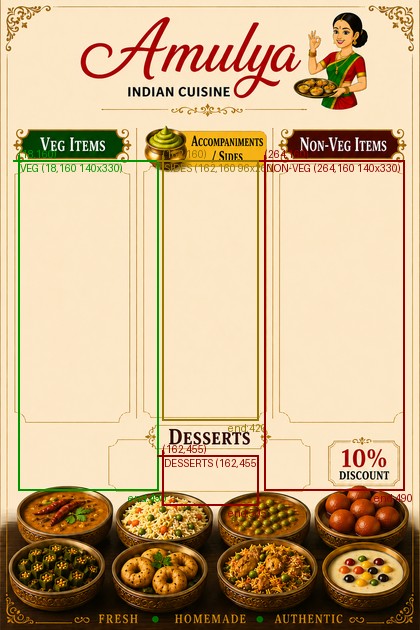
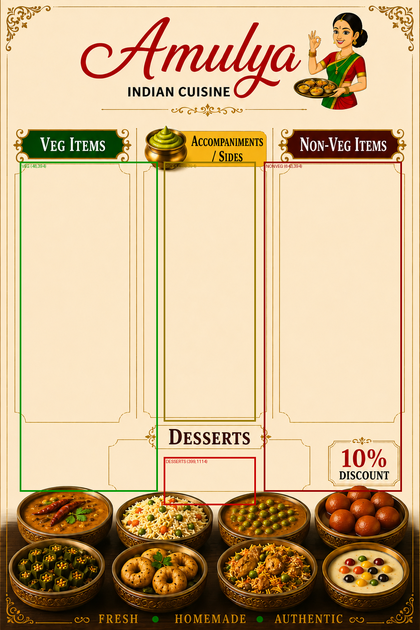
Full quality poster - 1024x1536px template
- Template now uses original full-size 1024x1536 image (was 420x630)
- Box positions recalculated for 1024px width
- Font sizes scaled up proportionally (16-24px range)
- Export at 2x = 2048x3072px output (print quality)
- Preview at 0.3x scale to fit mobile screen
- Text is now crisp and sharp in downloads
- Same pixel-perfect alignment as original design

Changed region(s): [[0.031, 0.2413, 0.9905, 0.8143]]

diff --git a/components/poster/PosterCanvas.tsx b/components/poster/PosterCanvas.tsx
@@ -7,7 +7,7 @@ interface PosterCanvasProps {
   fontFamily?: string;
 }
 
-/* Word-wrap to max 2 words per line for display */
+/* Wrap every 2 words onto a new line */
 function formatItemName(name: string): string[] {
   const words = name.split(' ');
   const lines: string[] = [];
@@ -17,145 +17,165 @@ function formatItemName(name: string): string[] {
   return lines;
 }
 
-/* Calculate line height based on item counts - items with 3+ words need 2 lines */
 function calcTotalLines(items: { name: string }[]): number {
   return items.reduce((sum, item) => {
-    const words = item.name.split(' ').length;
-    return sum + (words > 2 ? 2 : 1);
+    return sum + Math.ceil(item.name.split(' ').length / 2);
   }, 0);
 }
 
-export default function PosterCanvas({ config, fontFamily = '"Book Antiqua", "Palatino Linotype", Palatino, Georgia, serif' }: PosterCanvasProps) {
+export default function PosterCanvas({
+  config,
+  fontFamily = '"Book Antiqua", "Palatino Linotype", Palatino, Georgia, serif',
+}: PosterCanvasProps) {
   const { vegItems, nonVegItems, desserts, accompaniments } = config;
 
-  /* ── Exact box dimensions from pixel analysis ── */
-  /* Veg/NonVeg: x=18, y=160, w=140, h=330  */
-  /* Sides: x=162, y=160, w=96, h=260        */
-  /* Desserts: x=162, y=455, w=96, h=50      */
+  /*
+   * Template is 1024×1536px (full original quality)
+   * Box positions measured from full-size image:
+   *   VEG:     left=48,  top=394, w=336, h=804
+   *   SIDES:   left=399, top=394, w=224, h=633
+   *   DESSERTS:left=399, top=1114,w=224, h=117
+   *   NONVEG:  left=643, top=394, w=336, h=804
+   *
+   * The poster is rendered at 1024px wide.
+   * For PREVIEW we scale down with CSS — but for EXPORT we capture at natural size.
+   */
 
-  const VEG_BOX_H    = 330;
-  const NONVEG_BOX_H = 330;
-  const SIDES_BOX_H  = 260;
-  const DESSERT_BOX_H= 48;
+  const VEG_H     = 804;
+  const NONVEG_H  = 804;
+  const SIDES_H   = 633;
+  const DESSERT_H = 117;
 
-  /* Dynamic font + line-height calculation */
-  const calcSizes = (totalLines: number, boxHeight: number, minFont = 7, maxFont = 9.5) => {
-    const maxLinesAtMax = Math.floor(boxHeight / (maxFont * 1.55));
-    if (totalLines <= maxLinesAtMax) {
-      return { fontSize: maxFont, lineH: maxFont * 1.55 };
-    }
-    const lineH = boxHeight / totalLines;
-    const fontSize = Math.max(minFont, lineH / 1.55);
-    return { fontSize, lineH };
+  const calcSizes = (
+    totalLines: number,
+    boxHeight: number,
+    minFont = 16,
+    maxFont = 24,
+  ) => {
+    const lineH = maxFont * 1.5;
+    const maxLines = Math.floor(boxHeight / lineH);
+    if (totalLines <= maxLines) return { fontSize: maxFont, lineH };
+    const newLineH = boxHeight / totalLines;
+    const fontSize = Math.max(minFont, newLineH / 1.5);
+    return { fontSize, lineH: newLineH };
   };
 
-  const vegLines    = calcTotalLines(vegItems);
-  const nonvegLines = calcTotalLines(nonVegItems);
-  const sidesLines  = calcTotalLines(accompaniments);
-  const dessertLines= calcTotalLines(desserts);
-
-  const vegSizes     = calcSizes(vegLines,     VEG_BOX_H);
-  const nonvegSizes  = calcSizes(nonvegLines,  NONVEG_BOX_H);
-  const sidesSizes   = calcSizes(sidesLines,   SIDES_BOX_H, 7, 8.5);
-  const dessertSizes = calcSizes(dessertLines, DESSERT_BOX_H, 6.5, 8);
+  const vegSizes     = calcSizes(calcTotalLines(vegItems),     VEG_H);
+  const nonvegSizes  = calcSizes(calcTotalLines(nonVegItems),  NONVEG_H);
+  const sidesSizes   = calcSizes(calcTotalLines(accompaniments), SIDES_H, 14, 20);
+  const dessertSizes = calcSizes(calcTotalLines(desserts),     DESSERT_H, 13, 18);
 
   const renderItems = (
     items: { id: string; name: string }[],
     dotColor: string,
     sizes: { fontSize: number; lineH: number },
-    boxWidth: number
-  ) => items.map((item) => {
-    const lines = formatItemName(item.name);
-    return (
-      <div key={item.id} style={{ marginBottom: 0 }}>
-        {lines.map((line, li) => (
-          <div
-            key={li}
-            style={{
-              display: 'flex',
-              alignItems: 'center',
-              height: sizes.lineH,
-              fontSize: sizes.fontSize,
-              lineHeight: `${sizes.lineH}px`,
-              color: '#1A0800',
-              fontFamily,
-              fontWeight: 400,
-              letterSpacing: '0.01em',
-            }}
-          >
-            {li === 0 ? (
-              <span style={{
-                width: 5, height: 5, borderRadius: '50%',
-                background: dotColor, flexShrink: 0,
-                display: 'inline-block', marginRight: 4,
-              }}/>
-            ) : (
-              <span style={{ width: 9, flexShrink: 0, display: 'inline-block' }}/>
-            )}
-            <span style={{
-              overflow: 'hidden',
-              textOverflow: 'ellipsis',
-              whiteSpace: 'nowrap',
-              maxWidth: boxWidth - 14,
-            }}>
-              {line}
-            </span>
-          </div>
-        ))}
-      </div>
-    );
-  });
+    boxWidth: number,
+  ) =>
+    items.map((item) => {
+      const lines = formatItemName(item.name);
+      return (
+        <div key={item.id}>
+          {lines.map((line, li) => (
+            <div
+              key={li}
+              style={{
+                display: 'flex',
+                alignItems: 'center',
+                height: sizes.lineH,
+                fontSize: sizes.fontSize,
+                lineHeight: `${sizes.lineH}px`,
+                color: '#1A0800',
+                fontFamily,
+                fontWeight: 400,
+                letterSpacing: '0.01em',
+              }}
+            >
+              {li === 0 ? (
+                <span
+                  style={{
+                    width: 12,
+                    height: 12,
+                    borderRadius: '50%',
+                    background: dotColor,
+                    flexShrink: 0,
+                    display: 'inline-block',
+                    marginRight: 10,
+                  }}
+                />
+              ) : (
+                <span style={{ width: 22, flexShrink: 0, display: 'inline-block' }} />
+              )}
+              <span
+                style={{
+                  overflow: 'hidden',
+                  textOverflow: 'ellipsis',
+                  whiteSpace: 'nowrap',
+                  maxWidth: boxWidth - 26,
+                }}
+              >
+                {line}
+              </span>
+            </div>
+          ))}
+        </div>
+      );
+    });
 
   return (
     <div
       id="amulya-poster"
-      style={{ position: 'relative', width: 420, fontFamily, overflow: 'hidden' }}
+      style={{
+        position: 'relative',
+        width: 1024,
+        fontFamily,
+        overflow: 'hidden',
+      }}
     >
-      {/* Background template */}
+      {/* Full-size template background */}
       {/* eslint-disable-next-line @next/next/no-img-element */}
       <img
         src="/poster-template.png"
-        alt="Amulya Buffet Poster Template"
+        alt="Amulya Buffet Poster"
         crossOrigin="anonymous"
         style={{ width: '100%', display: 'block' }}
       />
 
-      {/* ── VEG ITEMS — left column ── */}
+      {/* VEG ITEMS */}
       <div style={{
-        position: 'absolute', left: 20, top: 162,
-        width: 138, height: VEG_BOX_H,
+        position: 'absolute', left: 50, top: 396,
+        width: 332, height: VEG_H,
         overflow: 'hidden', zIndex: 10,
       }}>
-        {renderItems(vegItems, '#2E7D32', vegSizes, 138)}
+        {renderItems(vegItems, '#2E7D32', vegSizes, 332)}
       </div>
 
-      {/* ── SIDES — centre column top ── */}
+      {/* SIDES */}
       <div style={{
-        position: 'absolute', left: 164, top: 162,
-        width: 92, height: SIDES_BOX_H,
+        position: 'absolute', left: 401, top: 396,
+        width: 220, height: SIDES_H,
         overflow: 'hidden', zIndex: 10,
       }}>
-        {renderItems(accompaniments, '#8B6914', sidesSizes, 92)}
+        {renderItems(accompaniments, '#8B6914', sidesSizes, 220)}
       </div>
 
-      {/* ── DESSERTS — centre column bottom ── */}
+      {/* DESSERTS */}
       {desserts.length > 0 && (
         <div style={{
-          position: 'absolute', left: 164, top: 457,
-          width: 92, height: DESSERT_BOX_H,
+          position: 'absolute', left: 401, top: 1116,
+          width: 220, height: DESSERT_H,
           overflow: 'hidden', zIndex: 10,
         }}>
-          {renderItems(desserts, '#DAA520', dessertSizes, 92)}
+          {renderItems(desserts, '#DAA520', dessertSizes, 220)}
         </div>
       )}
 
-      {/* ── NON-VEG ITEMS — right column ── */}
+      {/* NON-VEG ITEMS */}
       <div style={{
-        position: 'absolute', left: 264, top: 162,
-        width: 138, height: NONVEG_BOX_H,
+        position: 'absolute', left: 645, top: 396,
+        width: 332, height: NONVEG_H,
         overflow: 'hidden', zIndex: 10,
       }}>
-        {renderItems(nonVegItems, '#B71C1C', nonvegSizes, 138)}
+        {renderItems(nonVegItems, '#B71C1C', nonvegSizes, 332)}
       </div>
     </div>
   );

diff --git a/components/workflow/StepPoster.tsx b/components/workflow/StepPoster.tsx
@@ -100,8 +100,8 @@ export default function StepPoster({ config, onBack }: StepPosterProps) {
       )}
 
       {/* ── SCALED PREVIEW (display only) ── */}
-      <div className="flex justify-center overflow-hidden" style={{ height: 310 }}>
-        <div style={{ transform: 'scale(0.72)', transformOrigin: 'top center' }}>
+      <div className="flex justify-center overflow-hidden" style={{ height: 470 }}>
+        <div style={{ transform: 'scale(0.3)', transformOrigin: 'top center' }}>
           <PosterCanvas config={config} fontFamily={currentFont} />
         </div>
       </div>

diff --git a/lib/posterExport.ts b/lib/posterExport.ts
@@ -38,7 +38,7 @@ async function getCanvas(elementId: string) {
   );
 
   const canvas = await html2canvas(element, {
-    scale: 3,             // 3× = 1260px wide — crisp print quality
+    scale: 2,  // 2x = 2048px wide — print quality             // 3× = 1260px wide — crisp print quality
     useCORS: true,
     allowTaint: true,
     backgroundColor: '#F5EDD0',